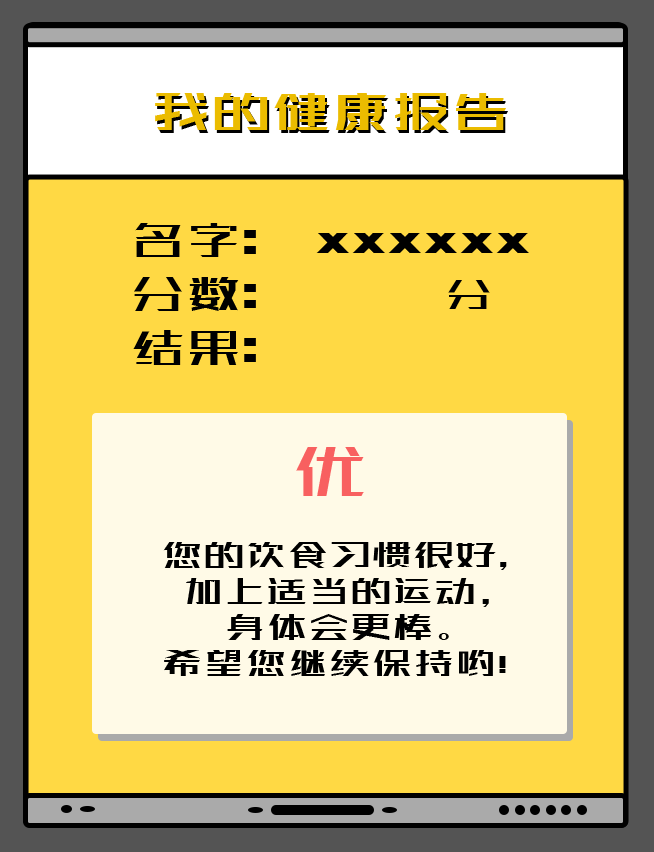
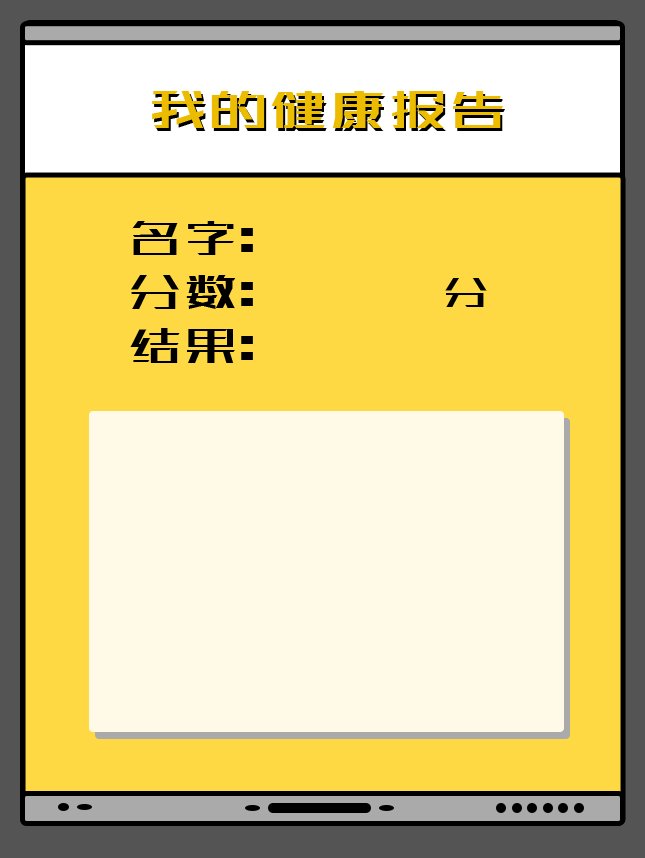
1

diff --git a/mugeda/index.html b/mugeda/index.html
@@ -11,6 +11,7 @@
     <link rel="stylesheet" href="css/box3.css">
     <link rel="stylesheet" href="css/box4.css">
     <link rel="stylesheet" href="css/box5.css">
+    <link rel="stylesheet" href="css/newdiv.css">
     <style>
         * {
             padding: 0px;
@@ -84,7 +85,7 @@
             <form class="abox4active" name="myform">
                 <input id="inputtext" type="text" name="username" placeholder="输入姓名" value="">
 
-                <select>
+                <select id="inputselect">
                     <option hidden>选择职业</option>  
                     <option>上班族</option>
                     <option>学生</option>
@@ -114,9 +115,9 @@
                         <td class="special" value="+" onclick="beanbackground2(this)">+</td>
                     </tr>
                     <tr>
-                        <td class="bean" value="100" onclick="beanbackground(this)">素食</td>
-                        <td class="bean" value="100" onclick="beanbackground(this)">米粉</td>
-                        <td class="bean" value="100" onclick="beanbackground(this)">煎饼</td>
+                        <td class="bean" id="b0" value="50" onclick="beanbackground(this)">素食</td>
+                        <td class="bean" id="b1" value="50" onclick="beanbackground(this)">米粉</td>
+                        <td class="bean" id="b2" value="50" onclick="beanbackground(this)">煎饼</td>
                         <td class="special" onclick="dy(this)"><span id="eq">=</span></td>
                     </tr>
                 </table>
@@ -124,8 +125,12 @@
         </div>
 
         <!--弹出层-->
-        <div id='newdiv'>
-            <p></p>
+        <div id="newdiv">
+            <p id="name1">姓名</p>
+            <p id="score1">分数</p>
+            <p id="eva">评价</p>
+            <p id="eva2">差</p>
+            <span id="evavalue">建议哈哈哈哈哈哈哈哈哈哈哈哈哈哈哈哈哈哈哈哈哈哈哈哈哈哈哈哈哈哈</span>
         </div>
     </div>
     <div id="fade" onclick="prepage()"></div>
@@ -227,16 +232,30 @@
                 pageNum++;
             }
             document.getElementsByClassName('abox' + pageNum)[0].classList.remove('active');
-        }, 3500)
+        }, 500)
 
 
         //第四页
+
+        //点击这个按钮获取用户名和职业
+        var username,work,score;
         function toNext(){
+            username = document.getElementById('inputtext').value;
+            work = document.getElementById('inputselect').value;
+            
+            if(work == '学生'){
+                b0.innerHTML = '软糖';
+                b1.innerHTML = '雪糕';
+                b2.innerHTML = '辣条';
+            }else{
+                b0.innerHTML = '素食';
+                b1.innerHTML = '米粉';
+                b2.innerHTML = '煎饼';
+            }
             document.getElementsByClassName('abox4')[0].classList.add('active');
             document.getElementsByClassName('abox5')[0].classList.remove('active');
         }
 
-        var values;
         function beanbackground(e){
             // alert('value：' + e.attributes['value'].nodeValue);
             if(jp.innerHTML == '请点击按键<br>&nbsp;&nbsp;&nbsp;开始计算'){
@@ -265,15 +284,23 @@
             if(eq.innerHTML == '='){
                 if(eval(jp.innerHTML) >= 500){
                     source.innerHTML = '优';
+                    evavalue.innerHTML = '您的饮食习惯很好，加上适当的运动，身体会更棒。希望您继续保持哟';
                 }else if(eval(jp.innerHTML) >= 200){
                     source.innerHTML = '良';
+                    evavalue.innerHTML = '您的饮食习惯正常，还需多吃健康食品才能有足够精力工作学习哟！';
                 }else{
                     source.innerHTML = '差';
+                    evavalue.innerHTML = '您的饮食习惯欠佳，请多吃五谷杂粮，少吃零食快餐才行哟！';
                 }
                 eq.innerHTML = '我的健康报告';
+                score = eval(jp.innerHTML);
                 jp.innerHTML = jp.innerHTML + '=' + eval(jp.innerHTML);
-                
             }else{
+                name1.innerHTML = username;
+                score1.innerHTML = score;
+                eva.innerHTML = source.innerHTML;
+                eva2.innerHTML = source.innerHTML;
+                
                 document.getElementById('newdiv').style.display = 'block';
                 document.getElementById('newdiv').classList.add('newdivactive')
                 document.getElementById('fade').style.display = 'block';
@@ -282,6 +309,18 @@
         }
         //出现弹出层后点击任何位置返回上一页
         function prepage(){
+            jp.innerHTML = '请点击按键<br>&nbsp;&nbsp;&nbsp;开始计算';
+            source.innerHTML = '';
+            eq.innerHTML = '=';
+            var beans = document.getElementsByClassName('bean');
+            for(var i = 0;i < beans.length - 3;i++){
+                beans[i].classList.remove('abox5hoveractive');
+                beans[i].setAttribute('value',100);
+            }
+            for(var i = beans.length - 3;i < beans.length; i++){
+                beans[i].classList.remove('abox5hoveractive');
+                beans[i].setAttribute('value',50);
+            }
             document.getElementById('newdiv').style.display = 'none';
             document.getElementById('newdiv').classList.remove('newdivactive')
             document.getElementById('fade').style.display = 'none';
@@ -293,13 +332,16 @@
         function rm(){
             jp.innerHTML = '';
             source.innerHTML = '';
+            eq.innerHTML = '=';
             var beans = document.getElementsByClassName('bean');
-            for(var i = 0;i < beans.length;i++){
+            for(var i = 0;i < beans.length - 3;i++){
                 beans[i].classList.remove('abox5hoveractive');
                 beans[i].setAttribute('value',100);
             }
-
-           
+            for(var i = beans.length - 3;i < beans.length; i++){
+                beans[i].classList.remove('abox5hoveractive');
+                beans[i].setAttribute('value',50);
+            }
         }
     </script>
 

diff --git a/mugeda/css/newdiv.css b/mugeda/css/newdiv.css
@@ -1,0 +1,33 @@
+#newdiv p:nth-child(1){
+    position: absolute;
+    top: 93px;
+    left: 120px;
+    font-weight: bold;
+}
+#newdiv p:nth-child(2){
+    position: absolute;
+    top: 117px;
+    left: 120px;
+    font-weight: bold;
+}
+#newdiv p:nth-child(3){
+    position: absolute;
+    top: 140px;
+    left: 120px;
+    font-weight: bold;
+}
+#newdiv p:nth-child(4){
+    position: absolute;
+    top: 190px;
+    left: 130px;
+    font-size: 20px;
+    font-weight: bold;
+}
+#newdiv span{
+    position: absolute;
+    top: 215px;
+    left: 68px;
+    width: 150px;
+    height: 110px;
+    font-weight: bold;
+}
